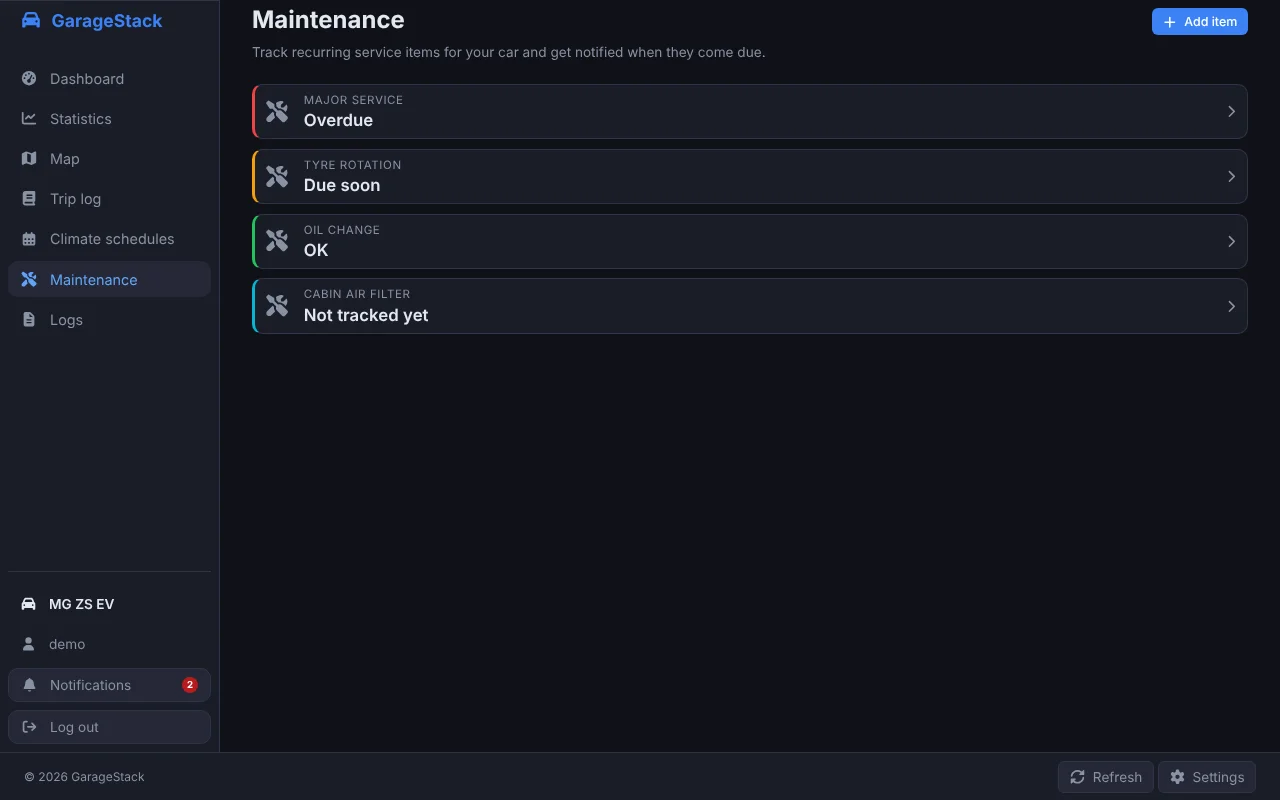
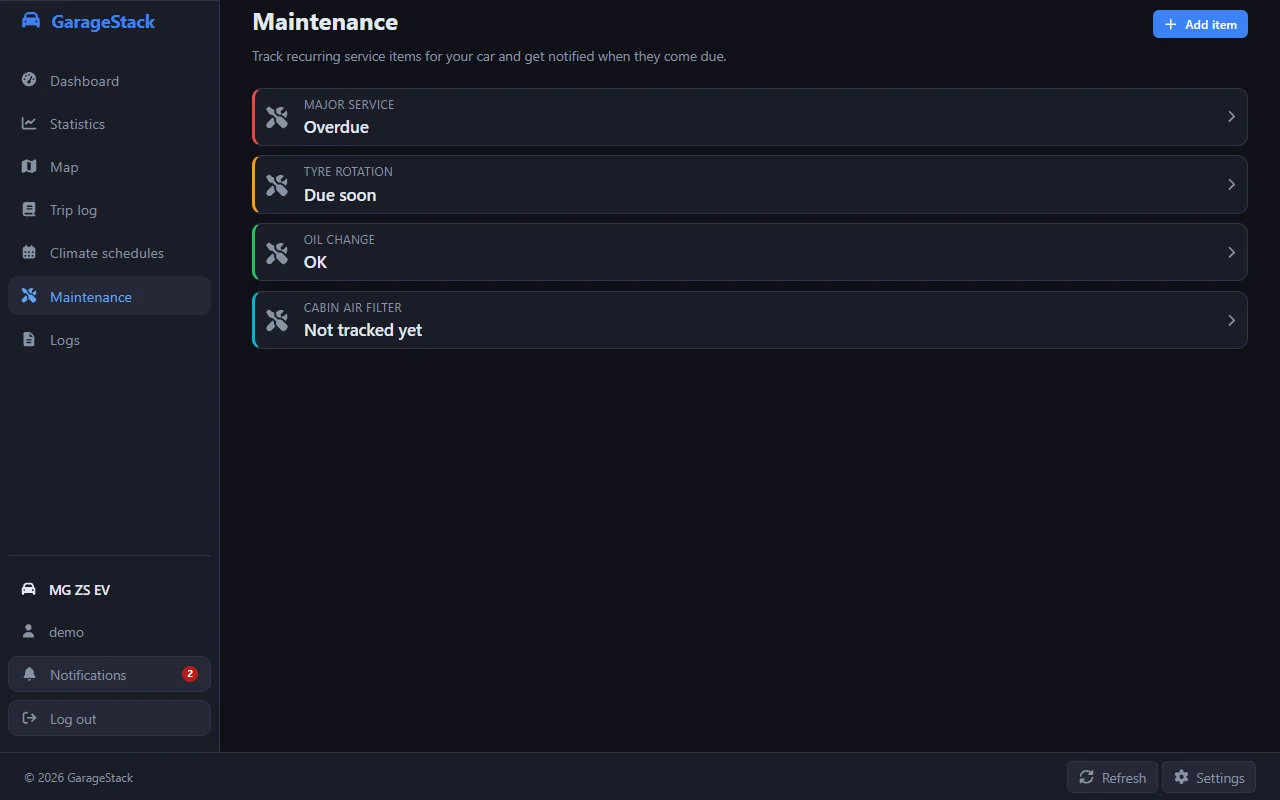
docs: phone GPS fusion in ARCHITECTURE.md, route editing in the README, fresh screenshots
- ARCHITECTURE.md: a Phone GPS (Dawarich) section (linking, which trips,
  matching, saving, the Trip.PhoneFusion states and who sets each, outages,
  display), and the fusion job in the Worker's list
- README: route editing in the feature list and the trip log section, the
  trip log fold on phones, and the gallery's new pages
- Screenshot gallery taken again (last done 2026-10-19, before the trip log
  split view, the tabbed settings and the phone top bar), with the route
  editor and the settings added; the script draws the vector basemap with a
  software GPU and waits for the editor's map

diff --git a/README.md b/README.md
@@ -37,7 +37,7 @@ And on a phone, with a single trip snapped to the roads and coloured against the
 
 <!-- markdownlint-enable MD033 -->
 
-The statistics, trip log, maintenance list and light theme are in the [screenshot gallery](documentation/screenshots/README.md).
+The statistics, trip log, route editor, settings, maintenance list and light theme are in the [screenshot gallery](documentation/screenshots/README.md).
 
 **Want to try it?** Read [MG iSmart account and session limits](#mg-ismart-account-and-session-limits) first, because GarageStack and the MG app cannot be signed in to the same account at once, then pick an [installation option](#installation). A single `docker run` is enough to get going.
 
@@ -62,7 +62,7 @@ The statistics, trip log, maintenance list and light theme are in the [screensho
 - **Tyre history** -- Tap a tyre's pressure on the dashboard's car to see a month of daily pressures for all four tyres, and how each one moved against the other three over the last two weeks: a tyre falling behind the others while they hold is a slow puncture, which also sends a notification.
 - **Trip history** -- Browse past journeys on an interactive map, each drawn on the roads it took and coloured by speed or by the speed limit, with a heatmap of the roads you drive most. Each trip is saved to the database a few minutes after the car parks. After upgrading from a version that did not save trips, the existing history is saved in the background on the Worker's first start.
 - **Phone GPS (Dawarich)** -- Fill gaps in recorded car trips with phone locations from your own Dawarich instance. Identify trackers by their app/device ID and last-seen time; you can link multiple phones, and GarageStack uses the best match for each trip. See [Phone GPS setup](documentation/PHONE_GPS.md).
-- **Trip log** -- Mark each trip as business, commute or private (commutes between your home and work are marked automatically), add notes, hide a GPS glitch, join two trips a fuel stop split, and export a month or a year as a spreadsheet with the addresses and odometer readings a tax trip log (such as the Dutch *rittenregistratie*) asks for. See [Trip log](#trip-log).
+- **Trip log** -- Mark each trip as business, commute or private (commutes between your home and work are marked automatically), add notes, hide a GPS glitch, join two trips a fuel stop split, fix a route the car recorded badly on the map, and export a month or a year as a spreadsheet with the addresses and odometer readings a tax trip log (such as the Dutch *rittenregistratie*) asks for. See [Trip log](#trip-log).
 - **Maintenance** -- Keep the car's service items (oil, tyres, the yearly inspection, ...) with a distance interval, a time interval or both. GarageStack works out from the odometer and your service log when each one is due, shows the most urgent on the dashboard, and sends a notification when an item reaches 90 % of its interval. Log each service with its date, odometer reading and notes.
 - **Dutch registration (RDW)** -- For a car with a Dutch licence plate, a dashboard card with the date the APK runs out and the days left, open recalls with what can go wrong and what the dealer does about it, and whether the car is insured, from the [RDW's open data](https://opendata.rdw.nl). Notifications come for a new recall, the APK a month and a week ahead, and a car with no insurance on record. Off until `RDW_ENABLED=true`; the plate, entered under Settings, is the only thing sent. See [Dutch registration (RDW)](#dutch-registration-rdw).
 - **Energy statistics** -- Track daily energy consumption, efficiency (Wh/km on a plug-in car, L/100 km on a hybrid), fuel use, electric share, average driving speed, and more, for any period from a week to several years.
@@ -425,7 +425,8 @@ Note: "keys left in the car" is not currently supported because the SAIC MQTT ga
 - **Notes.** Record anything a trip log should say, such as who you visited or why you took another route. Notes save when you leave the field.
 - **Hide a trip.** A trip the GPS got wrong, or one that should not count, can be hidden: it leaves the map, the statistics, the dashboard, the totals and the export, and is listed only under **Show hidden trips**, where **Show again** brings it back. Nothing is deleted.
 - **Join two trips.** A short stop, such as filling up on the way to work, splits one drive into two trips. **Join with next trip** (tap twice) makes them one, from the first one's start to the second one's end, with both notes kept. A purpose you chose for either is kept; otherwise it is labelled again from the new ends, so home to the fuel station to work becomes a commute. A join cannot be undone.
-- **Totals.** The distance per purpose for the period is shown at the top.
+- **Edit the route.** When the car reported its first position some way down the road, or the line cuts through places you never drove, **Edit route** (in a trip's details, or under the selected trip on the map) opens the trip on a map of its own. Move the start or the end by tapping the map or dragging the marker, use the parking spot before or after the trip with one tap, and add or remove points in between. Every step can be undone, and **Reset to recorded** goes back to the route as the car reported it. The car's own positions are never moved, only added to, and points you placed are drawn dashed. Saving updates the map, the addresses and the speeds; the distance in the log stays the one the odometer counted. Leaving with unsaved changes asks first.
+- **Totals.** The distance per purpose for the period is shown at the top. On a phone only the total shows until you open **Show purposes and driving figures**.
 - **Distance.** A trip counts for the distance on its odometer when the car reported a reading at both ends. Otherwise it counts for the distance along its GPS fixes, which is a little short because the fixes cut corners.
 - **Addresses** are looked up once through the same OpenStreetMap geocoder as the map, and then kept with the trip for good, so a log exported next year still shows them. With place names switched off (Settings > Map, or `GEOCODING__ENABLED=false`), ends show as coordinates and no lookups are made.
 - **Export CSV** saves the period, hidden trips left out, as a spreadsheet: date, departure and arrival time, from and to address, odometer start and end, distance, purpose and notes. The file follows the interface language: comma-separated in English, and semicolon-separated with decimal commas in Dutch, Spanish and Portuguese, so it opens in columns in Excel either way.

diff --git a/documentation/ARCHITECTURE.md b/documentation/ARCHITECTURE.md
@@ -100,6 +100,30 @@ The trip log (`/trip-log`, `TripEndpoints`) shows only saved trips, because only
 
 The `AddTripLog` migration clears the trips saved before it and resets the recording line, and the Worker saves them again with their new columns. Nothing is lost: until that migration, nothing a driver could enter was kept on a trip.
 
+
+### Phone GPS (Dawarich)
+
+A car that reports a position every few minutes leaves gaps a phone can fill. When `DAWARICH_URL` and `DAWARICH_API_KEY` are set, the Worker's `PhoneFusionService` adds positions from the driver's own [Dawarich](https://dawarich.app) instance to saved trips. [`PHONE_GPS.md`](PHONE_GPS.md) covers the setup; this is how it works.
+
+- **Linking.** `VehiclePhoneTrackers` holds the trackers (Dawarich's device ids, at most 10) linked to a car, each with the time it was linked. `GET`/`PUT /api/vehicles/{vin}/phone-trackers` lists and replaces them; the list also offers trackers Dawarich saw in the last 30 days, cached for five minutes. `/api/dawarich/status` checks the URL and key. Both go through the `dawarich` rate limit (12 a minute).
+- **Which trips.** Every three minutes the service takes up to 10 trips that ended at least `DAWARICH_FUSION_DELAY_MINUTES` ago (15 by default, so the phone app has uploaded), are neither edited nor hidden, and either were never looked at (`Trip.PhoneFusion` null) while a tracker linked before the trip started, or are `Pending`. A trip from before the link is only fused on request: `POST .../phone-trackers/backfill` stores a `PhoneBackfillRequests` row for the car, and each pass marks the matching trips `Pending`, 500 at a time.
+- **Matching.** `TripPhoneFusion` in Core decides, with no I/O. A tracker counts as being in the car when at least two of the car's own fixes, and at least 70% of those it can pair with a phone fix (within 60 seconds, interpolated between fixes up to two minutes apart), lie within 300 m, or twice the phone's stated accuracy if that is larger. Fixes less accurate than 50 m are ignored. The tracker that agrees best wins. Its fixes are added as points with source `phone`, except within 20 seconds of a car fix, which always takes precedence. When the car stood at a known parking spot (an anchored first point, or the last parked fix or the end of the trip before, within its departure window) and the phone left from within 200 m of it, the trip may start earlier, from the phone; it never starts before the trip before ended.
+- **Saving.** The result is applied with the same `ApplyPointsAsync` as an edit, so distance, ends and speeds follow. `CompleteAsync` runs serializable and checks again that the trip is unedited, still has the route that was matched, and that the trackers are still linked; otherwise it saves nothing and the trip comes back on a later pass. A route edit, reset or join racing it is refused the same way from the other side (see *Editing a route* above).
+- **States** (`Trip.PhoneFusion`, with `PhoneFusionAt` set by every outcome):
+
+  | State | Set by | Means |
+  | --- | --- | --- |
+  | none | recording | not looked at yet |
+  | `Pending` | the backfill pass | asked for again, regardless of when the tracker was linked |
+  | `Fused` | a pass | phone points were added |
+  | `NoMatch` | a pass | no linked phone travelled with the car, or it added nothing |
+  | `NotLinked` | a pass, or unlinking every tracker | the trackers changed while it ran, or none are left |
+  | `Failed` | a pass | the trip's points cannot be read, Dawarich refused the request in a way it will repeat, or five passes failed while Dawarich itself answered |
+
+  Joining two trips keeps `Fused` when either was fused, and otherwise starts the joined trip over as never looked at. An edited trip is never fused again.
+- **When Dawarich is down.** A rejected key pauses fusion for 30 minutes and logs once; Dawarich not answering its health check pauses it for five. Answers are capped at 4 MB.
+- **Display.** Phone points are drawn dashed like other points with a source (*Dashed stretches* above), with a key saying so (`PhoneSourceKey`). `phoneFusionAt` is part of a trip log entry, so a trip's cached route is fetched again once it is fused.
+
 ## The Dutch registration (RDW)
 
 With `RDW_ENABLED`, a car's Dutch plate (`Vehicle.LicensePlate`, entered by the user: neither the
@@ -152,7 +176,7 @@ PostgreSQL reuses the space of removed rows for new ones rather than handing it 
 | --- | --- | --- |
 | `GarageStack.Core` | Domain models (`Models/`), repository/service interfaces (`Interfaces/`), and pure helpers with no I/O (`Helpers/`) - the shared vocabulary every other project builds on. | nothing (leaf project) |
 | `GarageStack.Data` | EF Core: `AppDbContext`, migrations, concrete repository implementations, and `Demo/` (in-memory fakes used when `DEMO_MODE=true`). | `Core` |
-| `GarageStack.Worker` | The MQTT-ingestion process: `Mqtt/MqttConsumerService` and the message handlers beside it, plus the periodic jobs (maintenance reminders, POI pre-caching, push-notification checks, the slow-puncture check over two weeks of tyre pressures, saving finished trips, housekeeping and telemetry compaction, climate schedules, RDW lookups, and the heartbeat the API's readiness check listens for), each a `PeriodicBackgroundService`. | `Core`, `Data` |
+| `GarageStack.Worker` | The MQTT-ingestion process: `Mqtt/MqttConsumerService` and the message handlers beside it, plus the periodic jobs (maintenance reminders, POI pre-caching, push-notification checks, the slow-puncture check over two weeks of tyre pressures, saving finished trips, housekeeping and telemetry compaction, climate schedules, RDW lookups, phone GPS fusion from Dawarich, and the heartbeat the API's readiness check listens for), each a `PeriodicBackgroundService`. | `Core`, `Data` |
 | `GarageStack.Api` | ASP.NET Core minimal APIs (`Endpoints/`), the SignalR hub (`Hubs/`), and Api-only services (outbound MQTT publishing, POI/charging-station lookups, the Postgres-LISTEN-to-SignalR bridge). | `Core`, `Data` |
 | `GarageStack.Tests` | xUnit tests across all of the above. | all four |
 

diff --git a/documentation/screenshots/README.md b/documentation/screenshots/README.md
@@ -22,7 +22,11 @@ The main pages of GarageStack, on a desktop and on a phone. They were taken in [
 
 ### Trip log
 
-![The trip log: totals per purpose for the month, and each trip with its addresses, odometer readings, a business, commute or private choice, a notes field, and buttons to hide it or join it with the next trip](desktop-trip-log.webp)
+![The trip log: totals per purpose and driving figures for the month, a compact list of trips with their purpose, times, addresses and distance, and beside it the selected trip's details with its route on a map](desktop-trip-log.webp)
+
+### Editing a trip's route
+
+![The route editor: a trip from Amsterdam to Schiphol on a map with green start and red end markers, and beside it the distance, the addresses, the choice of moving the start, the end or points in between, and Undo, Reset to recorded, Cancel and Save](desktop-trip-edit.webp)
 
 ### Maintenance
 
@@ -31,6 +35,10 @@ The main pages of GarageStack, on a desktop and on a phone. They were taken in [
 ### Climate schedules
 
 ![The climate schedules: a weekday schedule at 07:30 with seat heating, and a one-off front defrost at 08:15, each with when it runs next](desktop-climate-schedules.webp)
+
+### Settings
+
+![The settings dialog on its General tab, with tabs for Vehicle, Map, Phone GPS, Notifications and Data & API, and the appearance (Light, Dark or System), dashboard, language and region settings](desktop-settings.webp)
 
 ### Light theme
 
@@ -45,12 +53,14 @@ The main pages of GarageStack, on a desktop and on a phone. They were taken in [
 | <img src="mobile-dashboard.webp" alt="The dashboard on a phone" width="180"> | <img src="mobile-map.webp" alt="The map on a phone" width="180"> | <img src="mobile-map-trip.webp" alt="One trip against the speed limits on a phone" width="180"> | <img src="mobile-dashboard-light.webp" alt="The dashboard on a phone in the light theme" width="180"> |
 | **Statistics** | **Trip log** | **Maintenance** | **Climate schedules** |
 | <img src="mobile-statistics.webp" alt="The statistics on a phone" width="180"> | <img src="mobile-trip-log.webp" alt="The trip log on a phone" width="180"> | <img src="mobile-maintenance.webp" alt="The maintenance list on a phone" width="180"> | <img src="mobile-climate-schedules.webp" alt="The climate schedules on a phone" width="180"> |
+| **Editing a route** | **Settings** | | |
+| <img src="mobile-trip-edit.webp" alt="The route editor on a phone, the map above the controls" width="180"> | <img src="mobile-settings.webp" alt="The settings on a phone, the tabs as icons under the title" width="180"> | | |
 
 <!-- markdownlint-enable MD033 -->
 
 ## Taking new ones
 
-`pnpm screenshots` in `frontend/` takes all of them again from a running demo stack, and copies the dashboard, map and statistics ones to the install screenshots in the app's manifest (`frontend/public/screenshot-*.webp`):
+`pnpm screenshots` in `frontend/` takes all of them again from a running demo stack (the route editor is opened from the newest trip, the settings on their first tab), and copies the dashboard, map and statistics ones to the install screenshots in the app's manifest (`frontend/public/screenshot-*.webp`):
 
 ```bash
 cp .env.demo.example .env.demo
